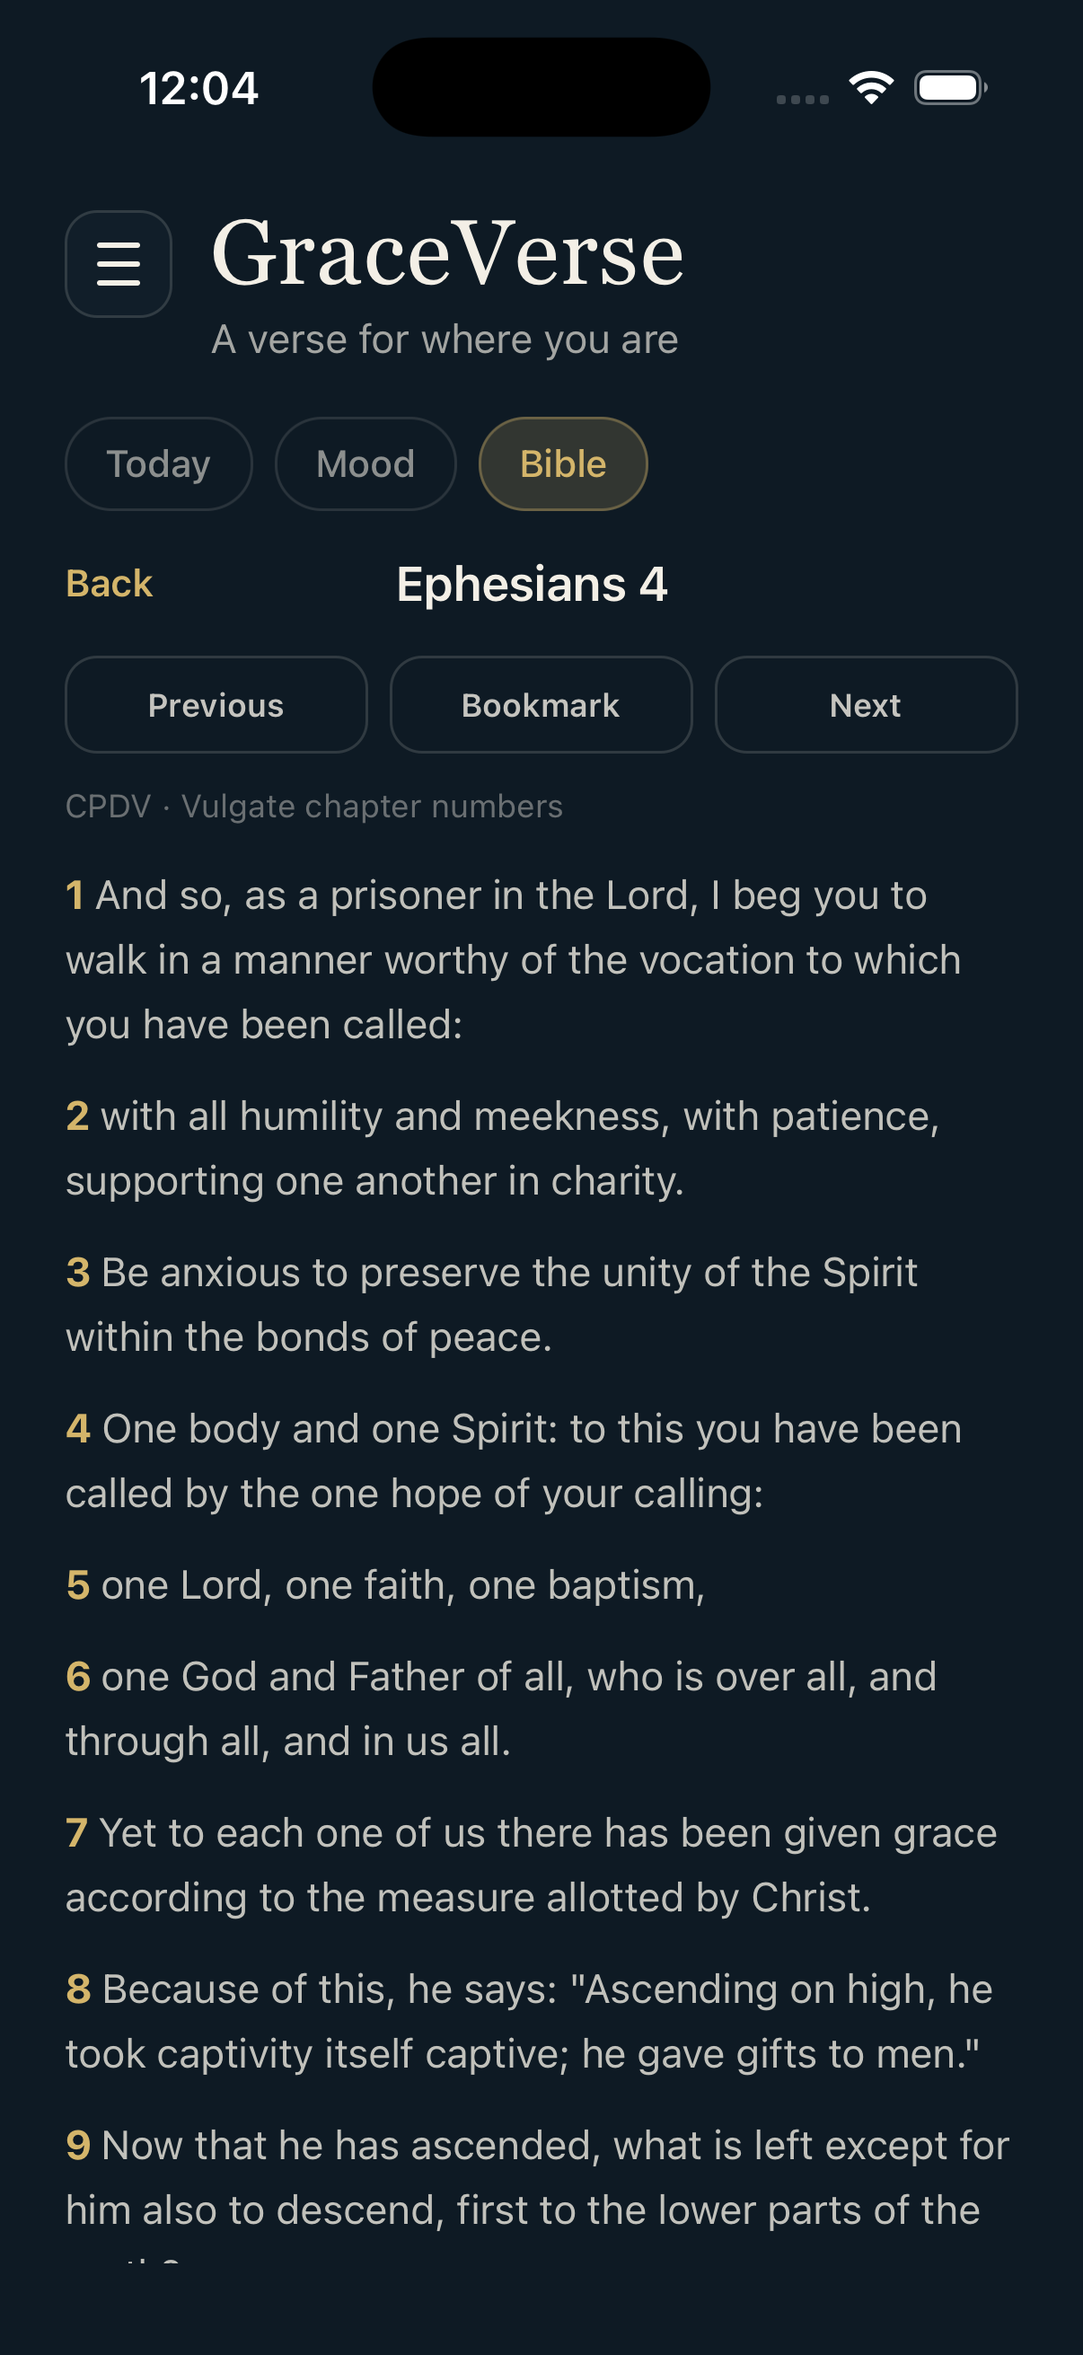
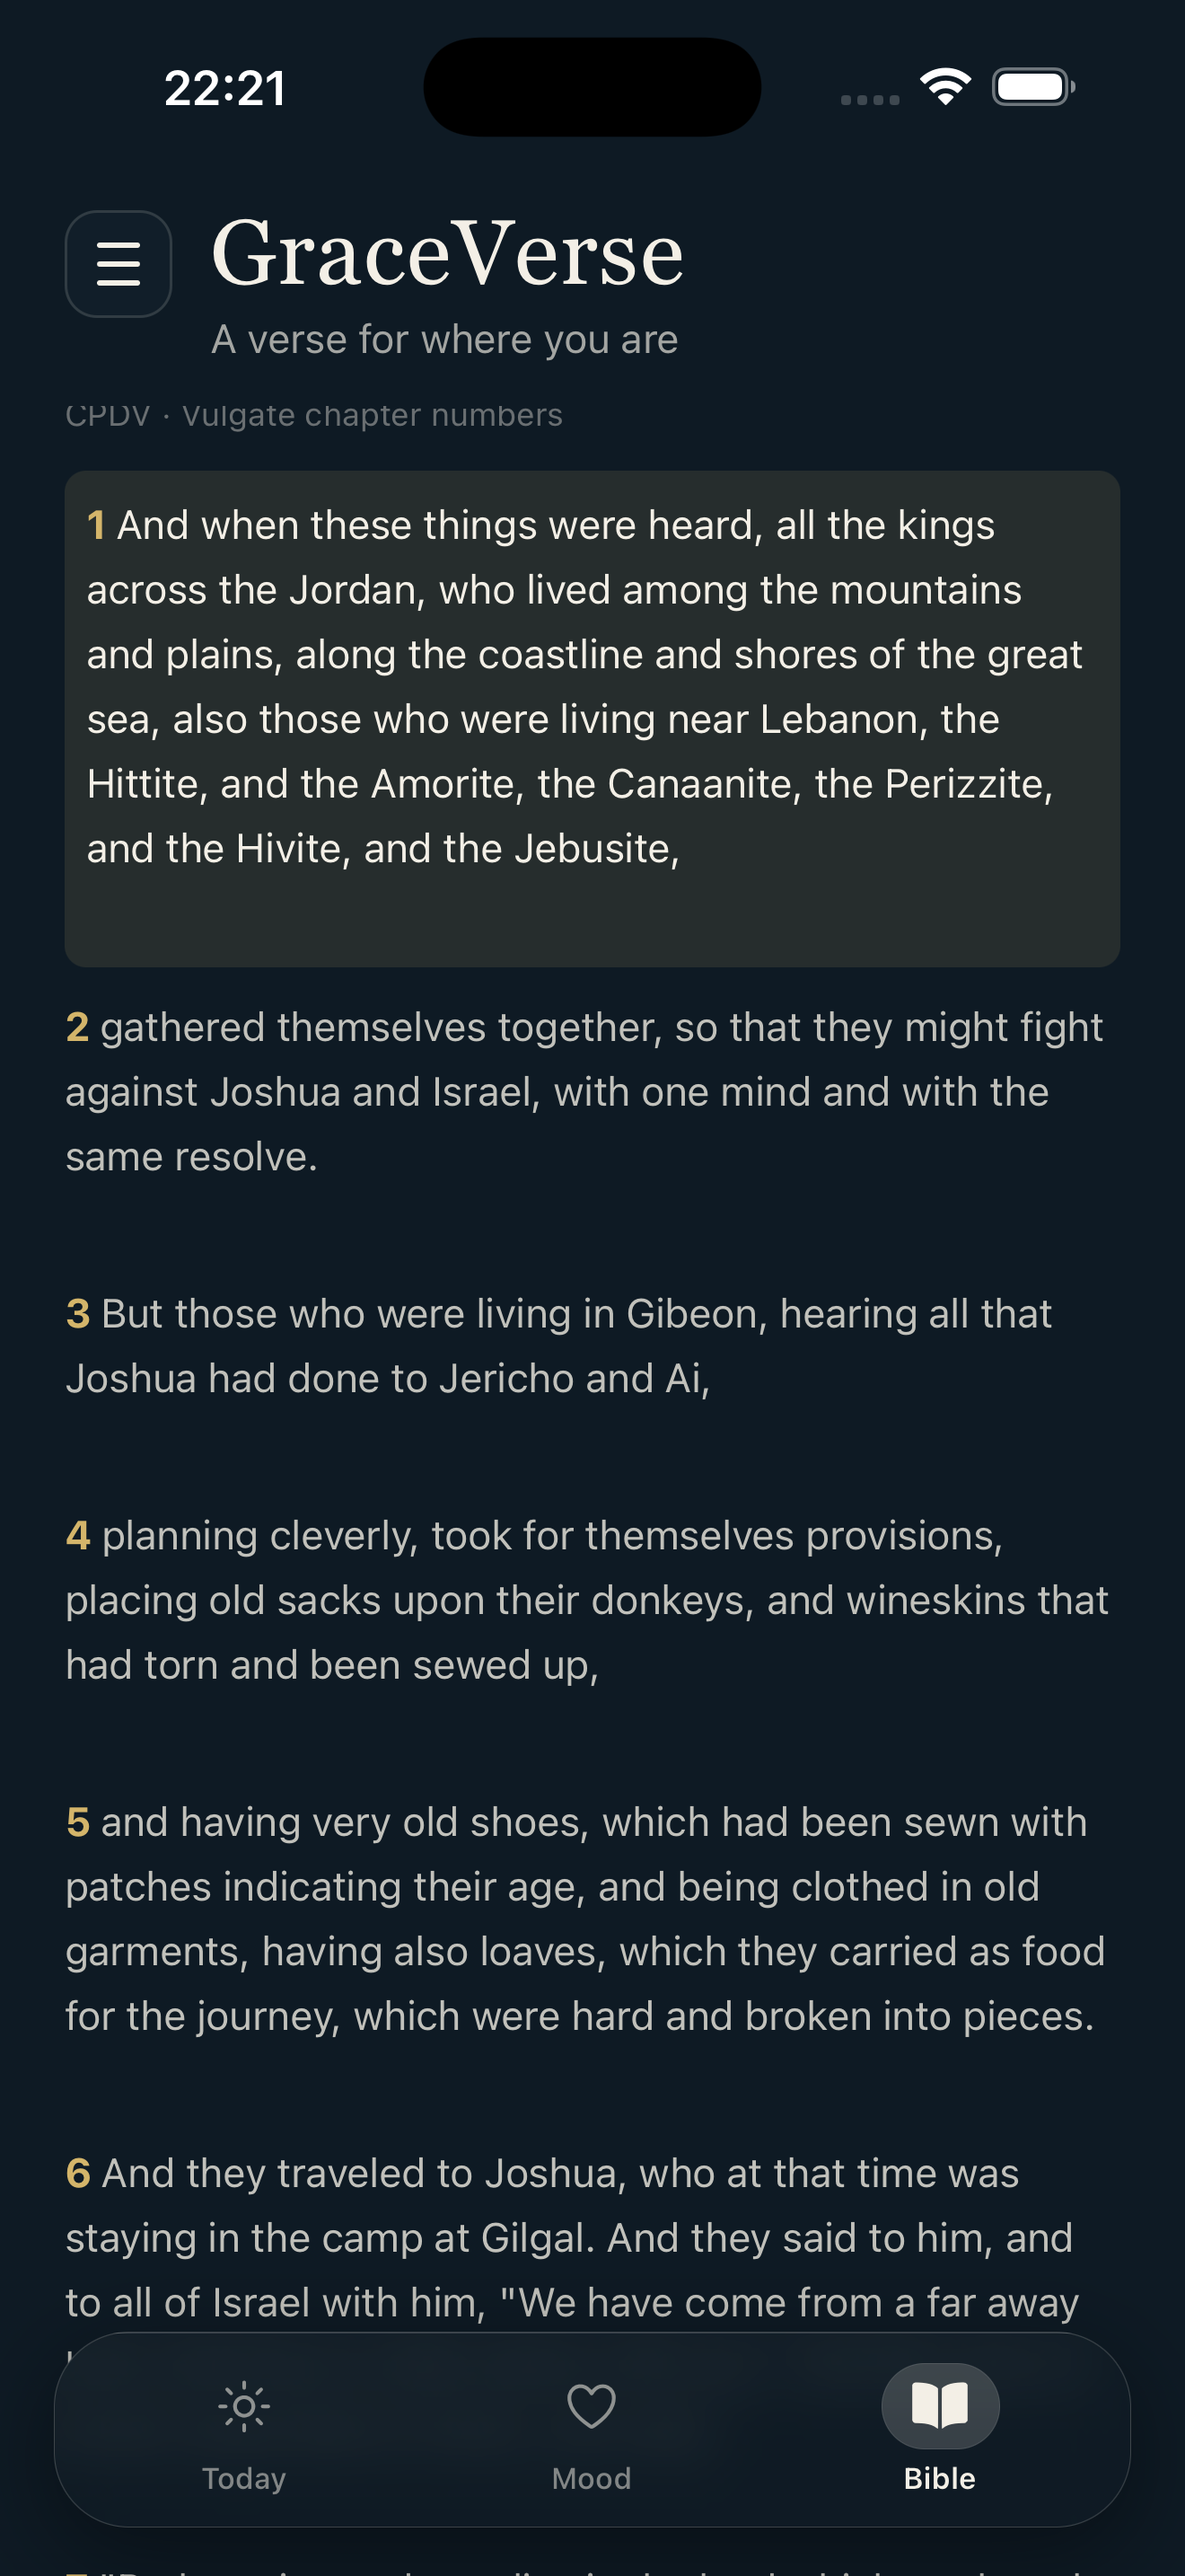
Refresh landing page with iPhone 6.9 screenshots

diff --git a/index.html b/index.html
@@ -93,7 +93,7 @@
             <div class="feature-phone">
               <div class="phone">
                     <div class="phone-screen">
-                  <img src="assets/screenshots/ios/mood-result.png" alt="Mood matching with a verse result" class="phone-screenshot" width="204" height="442" loading="lazy">
+                  <img src="assets/screenshots/ios/mood.png" alt="Mood and intensity picker" class="phone-screenshot" width="204" height="442" loading="lazy">
                 </div>
               </div>
             </div>
@@ -115,13 +115,13 @@
 
           <div class="feature-row reverse">
             <div class="feature-copy">
-              <h3>Bible home</h3>
-              <p>Search by reference, browse the canon, and keep local bookmarks and recents — corpus served from our API.</p>
+              <h3>Browse the Bible</h3>
+              <p>Browse the full Catholic canon by book and chapter, then continue reading in context.</p>
             </div>
             <div class="feature-phone">
               <div class="phone">
                     <div class="phone-screen">
-                  <img src="assets/screenshots/ios/bible-home.png" alt="Bible tab home" class="phone-screenshot" width="204" height="442" loading="lazy">
+                  <img src="assets/screenshots/ios/bible-books.png" alt="Bible books list" class="phone-screenshot" width="204" height="442" loading="lazy">
                 </div>
               </div>
             </div>

diff --git a/styles.css b/styles.css
@@ -243,13 +243,13 @@ img {
   box-shadow: var(--shadow-lg), 0 0 0 1px rgba(243, 239, 230, 0.08) inset;
 }
 
-/* Full-bleed screenshot well — matches iPhone 17 capture ratio (1206×2622) */
+/* Full-bleed screenshot well — matches iPhone 17 Pro Max capture ratio (1320×2868) */
 .phone-screen {
   position: relative;
   background: #0e1a24;
   border-radius: 30px;
   overflow: hidden;
-  aspect-ratio: 1206 / 2622;
+  aspect-ratio: 1320 / 2868;
   display: block;
   padding: 0;
   line-height: 0;

diff --git a/README.md b/README.md
@@ -47,7 +47,7 @@ GraceVerseDocs/
 | Folder | Device |
 |--------|--------|
 | `assets/screenshots/` | Android (OnePlus) |
-| `assets/screenshots/ios/` | iOS Simulator (iPhone 17) |
+| `assets/screenshots/ios/` | iOS Simulator (iPhone 17 Pro Max, 6.9") |
 
 Landing page phone frames use the **iOS** captures. Android files remain for Play Console upload.
 
@@ -57,9 +57,8 @@ Landing page phone frames use the **iOS** captures. Android files remain for Pla
 |------|--------|
 | `ios/today.png` | Today tab — daily verse |
 | `ios/mood.png` | Mood picker |
-| `ios/mood-result.png` | Mood match with verse |
-| `ios/bible-home.png` | Bible tab home |
 | `ios/bible-reader.png` | Chapter reader |
+| `ios/bible-books.png` | Bible books list |
 
 ```bash
 xcrun simctl io booted screenshot assets/screenshots/ios/today.png
